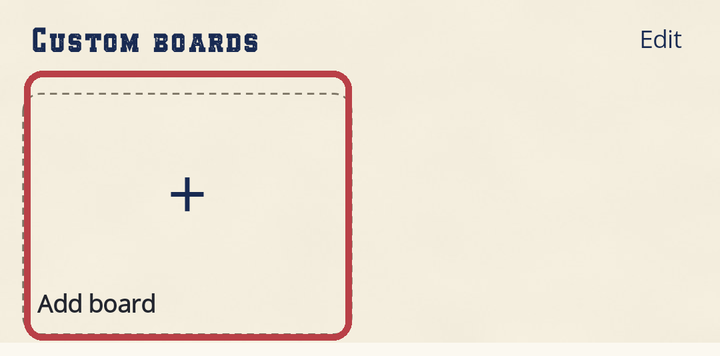
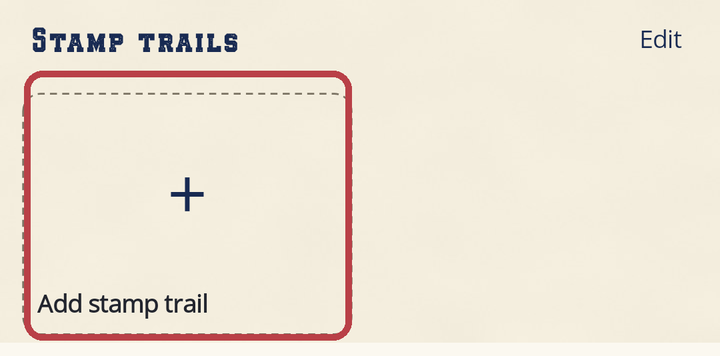
Call boards stamp trails in English
"Board" brought to mind a bulletin or game board, and the how-to page about
boards was already titled "Go on a stamp trail". The English screens and
messages now say stamp trail (Add stamp trail, Manage Stamp Trails, Shared
stamp trails), matching the Japanese スタンプラリー. The English how-to
screenshot is retaken.

Changed region(s): [[0.0306, 0.0927, 0.3667, 0.1545], [0.1222, 0.8343, 0.3056, 0.8961]]

diff --git a/Resources/AppResources.Designer.cs b/Resources/AppResources.Designer.cs
@@ -169,7 +169,7 @@ namespace FlagsRally.Resources {
         }
         
         /// <summary>
-        ///   Looks up a localized string similar to Boards.
+        ///   Looks up a localized string similar to Stamp trails.
         /// </summary>
         internal static string Boards {
             get {
@@ -268,7 +268,7 @@ namespace FlagsRally.Resources {
         }
         
         /// <summary>
-        ///   Looks up a localized string similar to Custom Board.
+        ///   Looks up a localized string similar to Stamp Trail.
         /// </summary>
         internal static string CustomBoard {
             get {
@@ -781,7 +781,7 @@ namespace FlagsRally.Resources {
         }
         
         /// <summary>
-        ///   Looks up a localized string similar to Manage Boards.
+        ///   Looks up a localized string similar to Manage Stamp Trails.
         /// </summary>
         internal static string ManageBoards {
             get {
@@ -844,7 +844,7 @@ namespace FlagsRally.Resources {
         }
         
         /// <summary>
-        ///   Looks up a localized string similar to Delete the following boards? All of their locations and check-in records will also be deleted..
+        ///   Looks up a localized string similar to Delete the following stamp trails? All of their places and check-in records will also be deleted..
         /// </summary>
         internal static string ConfirmDeleteBoards {
             get {
@@ -898,7 +898,7 @@ namespace FlagsRally.Resources {
         }
         
         /// <summary>
-        ///   Looks up a localized string similar to Add board.
+        ///   Looks up a localized string similar to Add stamp trail.
         /// </summary>
         internal static string AddBoard {
             get {
@@ -961,7 +961,7 @@ namespace FlagsRally.Resources {
         }
         
         /// <summary>
-        ///   Looks up a localized string similar to Custom boards.
+        ///   Looks up a localized string similar to Stamp trails.
         /// </summary>
         internal static string CustomBoards {
             get {
@@ -1069,7 +1069,7 @@ namespace FlagsRally.Resources {
         }
         
         /// <summary>
-        ///   Looks up a localized string similar to Board order.
+        ///   Looks up a localized string similar to Trail order.
         /// </summary>
         internal static string SortJsonOrder {
             get {
@@ -1105,7 +1105,7 @@ namespace FlagsRally.Resources {
         }
         
         /// <summary>
-        ///   Looks up a localized string similar to Shared boards.
+        ///   Looks up a localized string similar to Shared stamp trails.
         /// </summary>
         internal static string SharedBoards {
             get {
@@ -1114,7 +1114,7 @@ namespace FlagsRally.Resources {
         }
         
         /// <summary>
-        ///   Looks up a localized string similar to Choose the boards to add, then tap the add button below. Your check-ins are kept when a board is updated..
+        ///   Looks up a localized string similar to Choose the stamp trails to add, then tap the add button below. Your check-ins are kept when a stamp trail is updated..
         /// </summary>
         internal static string BoardCatalogHint {
             get {
@@ -1159,7 +1159,7 @@ namespace FlagsRally.Resources {
         }
         
         /// <summary>
-        ///   Looks up a localized string similar to Couldn't load the boards. Check your connection and try again..
+        ///   Looks up a localized string similar to Couldn't load the stamp trails. Check your connection and try again..
         /// </summary>
         internal static string CouldNotLoadBoards {
             get {
@@ -1177,7 +1177,7 @@ namespace FlagsRally.Resources {
         }
         
         /// <summary>
-        ///   Looks up a localized string similar to There are no boards in this folder..
+        ///   Looks up a localized string similar to There are no stamp trails in this folder..
         /// </summary>
         internal static string NoBoardsInFolder {
             get {
@@ -1384,7 +1384,7 @@ namespace FlagsRally.Resources {
         }
         
         /// <summary>
-        ///   Looks up a localized string similar to Add selected boards ({0}).
+        ///   Looks up a localized string similar to Add selected stamp trails ({0}).
         /// </summary>
         internal static string AddSelectedBoards {
             get {
@@ -1411,7 +1411,7 @@ namespace FlagsRally.Resources {
         }
         
         /// <summary>
-        ///   Looks up a localized string similar to Added these boards: {0}.
+        ///   Looks up a localized string similar to Added these stamp trails: {0}.
         /// </summary>
         internal static string BoardsAdded {
             get {
@@ -1420,7 +1420,7 @@ namespace FlagsRally.Resources {
         }
         
         /// <summary>
-        ///   Looks up a localized string similar to Could not add these boards: {0}.
+        ///   Looks up a localized string similar to Could not add these stamp trails: {0}.
         /// </summary>
         internal static string BoardsNotAdded {
             get {
@@ -1537,7 +1537,7 @@ namespace FlagsRally.Resources {
         }
         
         /// <summary>
-        ///   Looks up a localized string similar to Add boards such as shrine tours or manhole cards with Add board in Collections. Their places appear as pins on the map; go within {0} of one, select it and tap Check In..
+        ///   Looks up a localized string similar to Add stamp trails such as shrine tours or manhole cards with Add stamp trail in Collections. Their places appear as pins on the map; go within {0} of one, select it and tap Check In..
         /// </summary>
         internal static string OnboardingBoardsBody {
             get {

diff --git a/tools/howto_screens.py b/tools/howto_screens.py
@@ -36,7 +36,7 @@ STAMP_RED = (185, 64, 71)
 
 # Texts the script looks for, per language.
 TEXTS = {
-    "en": {"stamp": "Stamp where I am", "add_board": "Add board", "custom_boards": "Custom boards", "tab": "Passport"},
+    "en": {"stamp": "Stamp where I am", "add_board": "Add stamp trail", "custom_boards": "Stamp trails", "tab": "Passport"},
     "ja": {"stamp": "現在地でスタンプ", "add_board": "スタンプラリーを追加", "custom_boards": "スタンプラリー", "tab": "パスポート"},
 }
 # Country of residence for the passport cover in the screenshots.

diff --git a/.claude/skills/howto-screens/SKILL.md b/.claude/skills/howto-screens/SKILL.md
@@ -5,7 +5,7 @@ description: Retake the screenshots on FlagsRally's how-to pages (Resources/Imag
 
 # Retake the how-to screenshots
 
-The first three how-to pages (a card over the app, with the tab bar left in sight; Settings > Information > How to use) show the real screens: the passport, the map with "Stamp where I am" framed, and Collections with the "Add board" card framed. One set per language: `Resources/Images/howto_{passport,stamp,boards}_{en,ja}.png`. They are taken on Android and used on iOS too, so they are cut to leave out the status bar and the tab bar, which differ between the two.
+The first three how-to pages (a card over the app, with the tab bar left in sight; Settings > Information > How to use) show the real screens: the passport, the map with "Stamp where I am" framed, and Collections with the "Add stamp trail" card framed. One set per language: `Resources/Images/howto_{passport,stamp,boards}_{en,ja}.png`. They are taken on Android and used on iOS too, so they are cut to leave out the status bar and the tab bar, which differ between the two.
 
 `tools/howto_screens.py` does the whole thing. For each language it puts sample data in the app (six arrivals in Japan, the United States and France; no boards, as on a first launch; the map hint already seen; Classic pins; a US cover for English and a Japanese one for Japanese), opens each screen, finds the button by its text, crops, draws the frame and writes the PNG. It saves the app's database and settings first and puts them back at the end.
 
